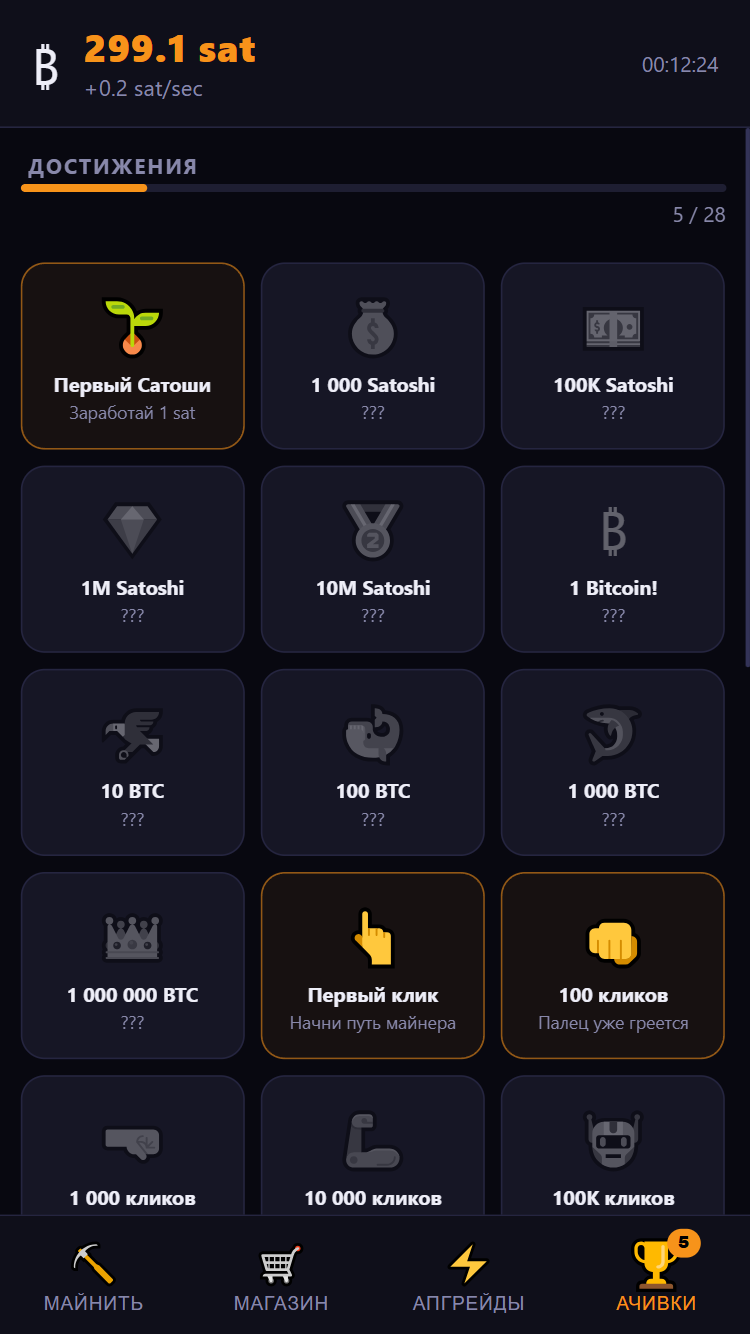
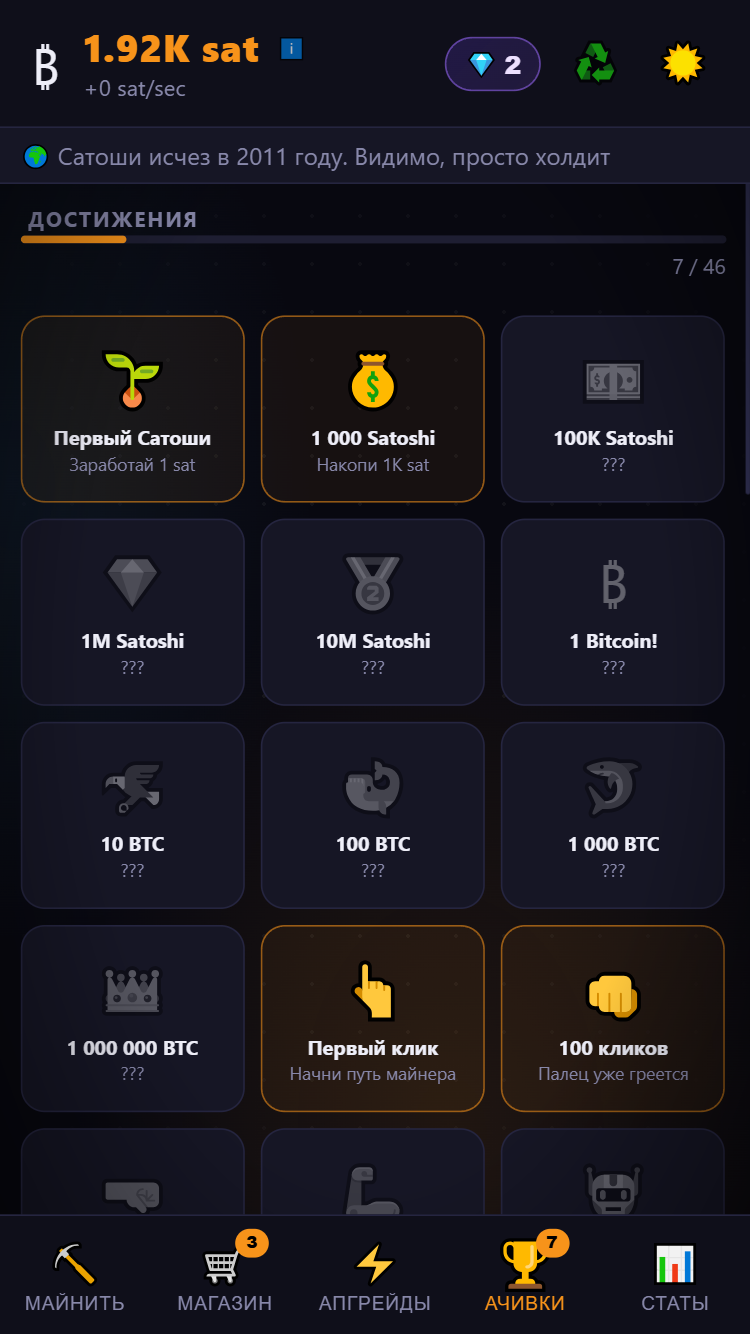
update readme and screenshots & remove BTC exchange rate

diff --git a/js/main.js b/js/main.js
@@ -50,42 +50,6 @@
   showNext();
 })();
 
-// ── Live BTC price ────────────────────────
-
-(function initBtcPrice() {
-  const el = document.getElementById('btc-price');
-  if (!el) return;
-
-  let prevPrice = null;
-
-  function fmtUsd(n) {
-    return '📈 $' + n.toLocaleString('en-US', { minimumFractionDigits: 2, maximumFractionDigits: 2 });
-  }
-
-  async function fetchPrice() {
-    try {
-      const res = await fetch('https://api.binance.com/api/v3/ticker/price?symbol=BTCUSDT',
-        { cache: 'no-store' });
-      const data = await res.json();
-      const price = parseFloat(data.price);
-
-      let arrow = '';
-      if (prevPrice !== null && price !== prevPrice) {
-        arrow = price > prevPrice
-          ? '<span class="price-up">▲</span>'
-          : '<span class="price-down">▼</span>';
-      }
-      prevPrice = price;
-      el.innerHTML = fmtUsd(price) + (arrow ? '\u00a0' + arrow : '');
-    } catch {
-      /* network unavailable — keep last value */
-    }
-  }
-
-  fetchPrice();
-  setInterval(fetchPrice, 10_000);
-})();
-
 // ── Theme toggle ───────────────────────────
 
 (function initTheme() {
@@ -515,12 +479,6 @@ setInterval(() => {
 
   checkAchievements();
 }, 200);
-
-// ── Playtime clock (1 s tick) ─────────────
-
-setInterval(() => {
-  document.getElementById('header-time').textContent = fmtTime(G.playtime);
-}, 1000);
 
 // ── Autosave (15 s) ───────────────────────
 

diff --git a/css/header.css b/css/header.css
@@ -22,11 +22,7 @@
   line-height: 1.2;
 }
 #sps-display   { font-size: 0.7rem; color: var(--text2); margin-top: 1px; }
-#btc-price     { font-size: 0.62rem; color: var(--text2); margin-top: 1px; letter-spacing: 0.02em; }
-.price-up      { color: #28c76f; font-size: 0.55rem; vertical-align: middle; }
-.price-down    { color: #ea5455; font-size: 0.55rem; vertical-align: middle; }
 #header-right  { display: flex; flex-direction: column; align-items: center; gap: 3px; }
-#header-time   { font-size: 0.65rem; color: var(--text2); white-space: nowrap; }
 #header-actions { display: flex; align-items: center; gap: 10px; }
 
 #gem-btn {

diff --git a/index.html b/index.html
@@ -26,10 +26,8 @@
       <div id="balance-hint">ℹ</div>
     </div>
     <div id="sps-display">+0 sat/sec</div>
-    <div id="btc-price">…</div>
   </div>
   <div id="header-right">
-    <div id="header-time">00:00:00</div>
     <div id="header-actions">
       <button id="gem-btn" title="Кристальный магазин">💎 <span id="gem-count">0</span></button>
       <button id="prestige-open-btn" title="Престиж">♻</button>

diff --git a/README.md b/README.md
@@ -1,4 +1,4 @@
-<div align="center">
+<div align="center">
 
 # ₿ Bitcoin Miner Idle
 
@@ -25,13 +25,17 @@
 |:---:|:---:|
 | ![Upgrades screen](screenshots/upgrades.png) | ![Achievements screen](screenshots/achievements.png) |
 
+| 📊 Stats |
+|:---:|
+| ![Stats screen](screenshots/stats.png) |
+
 </div>
 
 ---
 
 ## 🎮 Gameplay
 
-Start with **0 BTC** and tap the coin to earn your first satoshi. Reinvest into miners that auto-generate income — from a dusty GTX 1060 all the way up to a Dyson Sphere.
+Start with **0 BTC** and tap the coin to earn your first satoshi. Reinvest into miners that auto-generate income — from a dusty GTX 1060 all the way up to a Dyson Sphere. Reach prestige thresholds to restart with permanent multipliers, and spend crystals 💎 in the gem shop for special boosts.
 
 ```
 1 BTC = 100,000,000 satoshi
@@ -40,83 +44,21 @@ Start with **0 BTC** and tap the coin to earn your first satoshi. Reinvest into 
 ### 🔁 Progression loop
 
 ```
-Tap coin  →  Earn satoshi  →  Buy miners  →  Buy upgrades  →  Earn faster  →  …
+Tap coin  →  Earn satoshi  →  Buy miners  →  Buy upgrades  →  Earn faster  →  Prestige  →  …
 ```
 
 ---
 
-## ⛏ Miners (22 total)
+## 🎯 Content
 
-| # | Device | Base price | sat/sec |
-|---|--------|-----------|---------|
-| 1 | 💻 GTX 1060 | 50 sat | 0.1 |
-| 2 | 🖱 RTX 2060 | 280 sat | 0.6 |
-| 3 | 🖥 RTX 3060 | 1 500 sat | 4 |
-| 4 | 🎮 RTX 4070 | 8 000 sat | 22 |
-| 5 | ⚡ RTX 4090 | 40 000 sat | 130 |
-| 6 | 🔴 RX 7900 XTX | 200 000 sat | 750 |
-| 7 | 🔧 Rig 4× GPU | 1 000 000 sat | 4 500 |
-| 8 | 🔩 Rig 8× GPU | 6 000 000 sat | 30 000 |
-| 9 | 🏗 Mega Rig 16× | 35 000 000 sat | 200 000 |
-| 10 | 📦 Antminer S9 | 200 000 000 sat | 1 300 000 |
-| 11 | 📫 Antminer S17 | 1.2B sat | 9 000 000 |
-| 12 | 🚗 Antminer S19 Pro | 7B sat | 60 000 000 |
-| 13 | 🚀 Antminer S21 XP | 40B sat | 420 000 000 |
-| 14 | 💎 Whatsminer M66S | 250B sat | 3B |
-| 15 | 🏚 Мини-ферма | 1.5T sat | 22B |
-| 16 | 🚢 Контейнер | 10T sat | 160B |
-| 17 | 🏢 Дата-центр | 70T sat | 1.2T |
-| 18 | 💧 Гидро-ферма | 500T sat | 9T |
-| 19 | ☀ Солнечная ферма | 4Qa sat | 75T |
-| 20 | ☢ АЭС-Ферма | 30Qa sat | 600T |
-| 21 | 🔮 Квантовый майнер | 250Qa sat | 5Qa |
-| 22 | 🌟 Сфера Дайсона | 2Qi sat | 45Qa |
-
-> Each repeat purchase multiplies the price by **×1.15** and adds another unit to your fleet.
-
----
-
-## ⚡ Upgrades (14 total)
-
-### Click upgrades — multiply sat per tap
-
-| Upgrade | Cost | Multiplier |
-|---------|------|-----------|
-| 💾 Mining Software | 300 sat | ×2 |
-| 🤖 AI Optimizer | 6 000 sat | ×2 |
-| 🧠 Больше ОЗУ | 60 000 sat | ×3 |
-| 🔥 Overclock+ | 500 000 sat | ×5 |
-| ⚙ ASIC-кликер | 6 000 000 sat | ×8 |
-| 🔮 Квантовый клик | 150 000 000 sat | ×15 |
-| 💥 Ultra Click | 5B sat | ×25 |
-
-### Mine upgrades — multiply all sat/sec
-
-| Upgrade | Cost | Multiplier |
-|---------|------|-----------|
-| ❄ Лучшее охлаждение | 2 000 sat | ×1.5 |
-| ⚡ Дешёвый ток | 40 000 sat | ×2 |
-| 🌐 Mining Pool | 600 000 sat | ×2 |
-| 🌱 Зелёная энергия | 8 000 000 sat | ×2 |
-| 🧬 ИИ-управление | 150 000 000 sat | ×3 |
-| 💦 Жидкостное охл. | 4B sat | ×3 |
-| 🔆 Ядерный синтез | 200B sat | ×5 |
-| 🌌 Тёмная энергия | 10T sat | ×8 |
-
----
-
-## 🏆 Achievements (28 total)
-
-Achievements are grouped into five categories:
-
-| Category | Examples |
-|----------|---------|
-| 💰 Balance milestones | First Satoshi → 1M sat → 1 BTC → 1M BTC |
-| 👆 Click count | 1 click → 100 → 1K → 10K → 100K |
-| 🖥 Devices owned | 1 device → 10 → 50 → 100 → 250 |
-| 🚀 sat/sec rate | 100/s → 10K/s → 1M/s → 1B/s → 1T/s |
-| ⏱ Playtime | HODL (10 min) · To the Moon (1 hour) |
-| ⭐ Special | Buy all upgrades |
+- **⛏ 22 miners** — from a GTX 1060 to a Dyson Sphere, each ×1.15 more expensive per purchase
+- **⚡ 15 upgrades** — 7 multiply click power, 8 multiply all sat/sec
+- **🏆 46 achievements** — balance, clicks, devices, sat/sec, playtime, prestige, managers
+- **👔 5 managers** — auto-click the coin for you
+- **💎 9 permanent gem upgrades** — offline time, click & mine multipliers, boosts
+- **♻ Prestige** — reset for a permanent multiplier, repeat for compounding bonuses
+- **⚡ Frenzy** — random events that spike click income for a short time
+- **📊 Stats tab** — full session breakdown
 
 ---
 
@@ -132,7 +74,15 @@ Progress is auto-saved to **`localStorage`** every 15 seconds and on every purch
 bitcoin-miner-idle/
 ├── index.html          # markup only
 ├── css/
-│   └── style.css       # all styles (dark theme, animations)
+│   ├── style.css       # root variables, resets, layout
+│   ├── base.css        # base element styles
+│   ├── header.css      # top header & balance bar
+│   ├── mine.css        # mine tab — coin, click area
+│   ├── shop.css        # shop & upgrade card styles
+│   ├── panels.css      # tab panels & nav bar
+│   ├── modals.css      # gem shop & prestige modals
+│   ├── gems.css        # gem/crystal UI
+│   └── drops.css       # drop/frenzy animations
 └── js/
     ├── data.js         # MINERS, UPGRADES, ACHIEVEMENTS constants
     ├── utils.js        # fmt(), fmtBalance(), fmtSps(), fmtTime()
